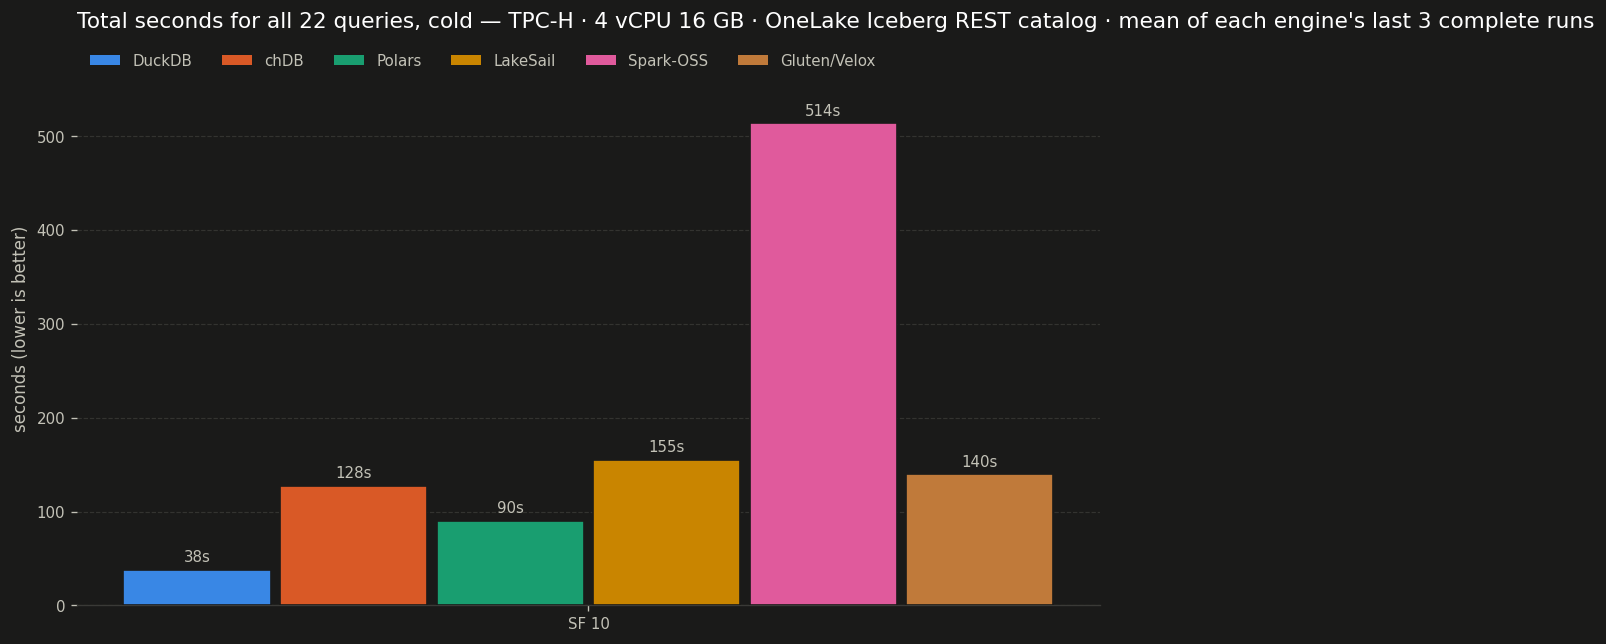
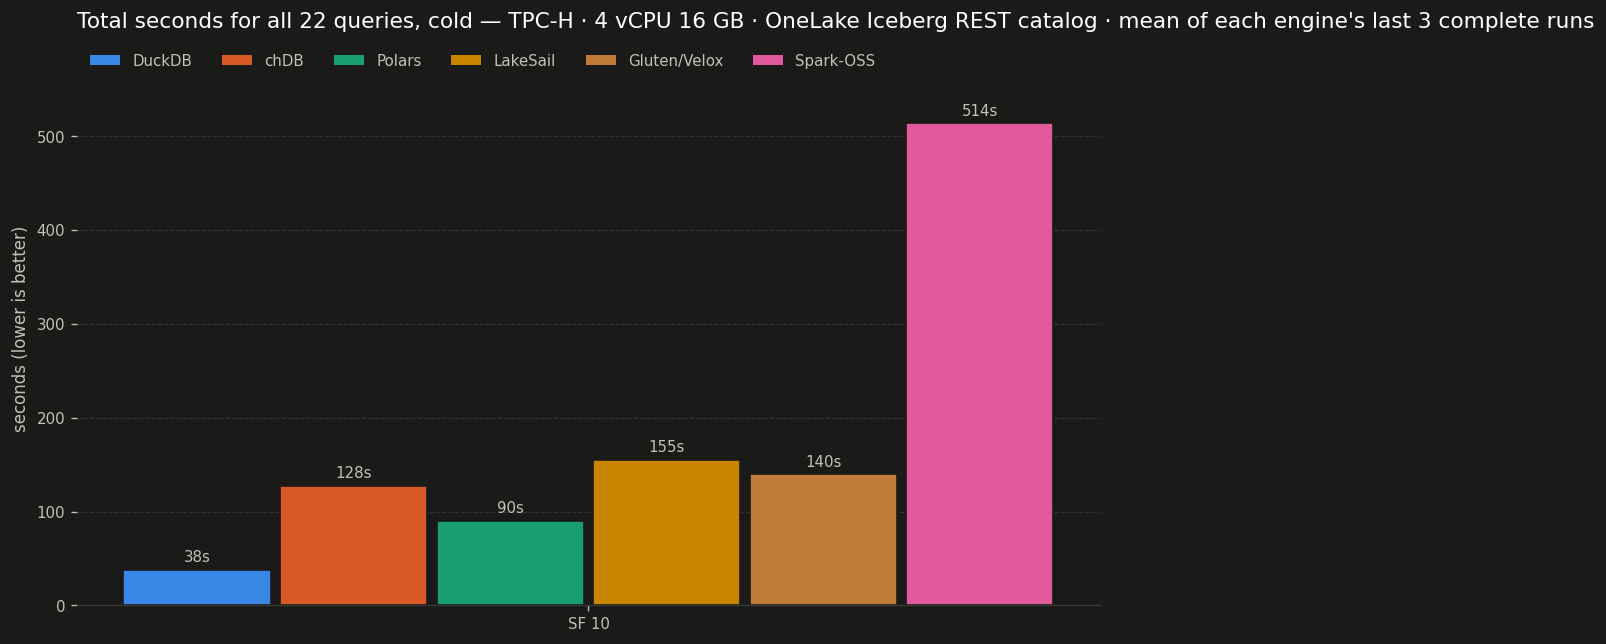
Totals chart: Spark-OSS last, bars packed and centred per scale
An engine missing at a scale no longer leaves a hole in its group, and
Spark-OSS -- the one most often missing at the big scales -- sits last.

Changed region(s): [[0.467, 0.1553, 0.6538, 0.9627], [0.3736, 0.0621, 0.5604, 0.1242]]

diff --git a/bench/tpch/charts.py b/bench/tpch/charts.py
@@ -290,7 +290,10 @@ def totals_by_sf(
     data = {(engine, sf): (dur, n) for engine, sf, dur, n in rows}
     if not data:
         return []
-    engines = [e for e in ENGINES if any(k[0] == e for k in data)]
+    # Palette order, except Spark-OSS goes LAST: it is the engine most often missing at the big
+    # scales (hours per pass), and last is where its absence leaves nothing out of place.
+    order = sorted(ENGINES, key=lambda e: e == "pyspark_iceberg")
+    engines = [e for e in order if any(k[0] == e for k in data)]
     shown = [s for s in sfs if any(k[1] == s for k in data)]
     width = 0.8 / len(engines)
     top = max(dur for dur, _ in data.values())
@@ -298,12 +301,13 @@ def totals_by_sf(
     paths = []
     for theme in THEMES.values():
         fig, ax = plt.subplots(figsize=(max(11, 2.2 * len(shown) + 0.5 * len(engines)), 6))
-        for slot, engine in enumerate(engines):
-            for group, sf in enumerate(shown):
-                if (engine, sf) not in data:
-                    continue
+        for group, sf in enumerate(shown):
+            # PACKED PER SCALE: only the engines with a bar here, centred on the tick, so an
+            # engine missing at this scale leaves no hole. Bar width stays fixed across groups.
+            present = [e for e in engines if (e, sf) in data]
+            for slot, engine in enumerate(present):
                 dur, n = data[(engine, sf)]
-                x = group + (slot - (len(engines) - 1) / 2) * width
+                x = group + (slot - (len(present) - 1) / 2) * width
                 ax.bar(
                     x,
                     dur,
